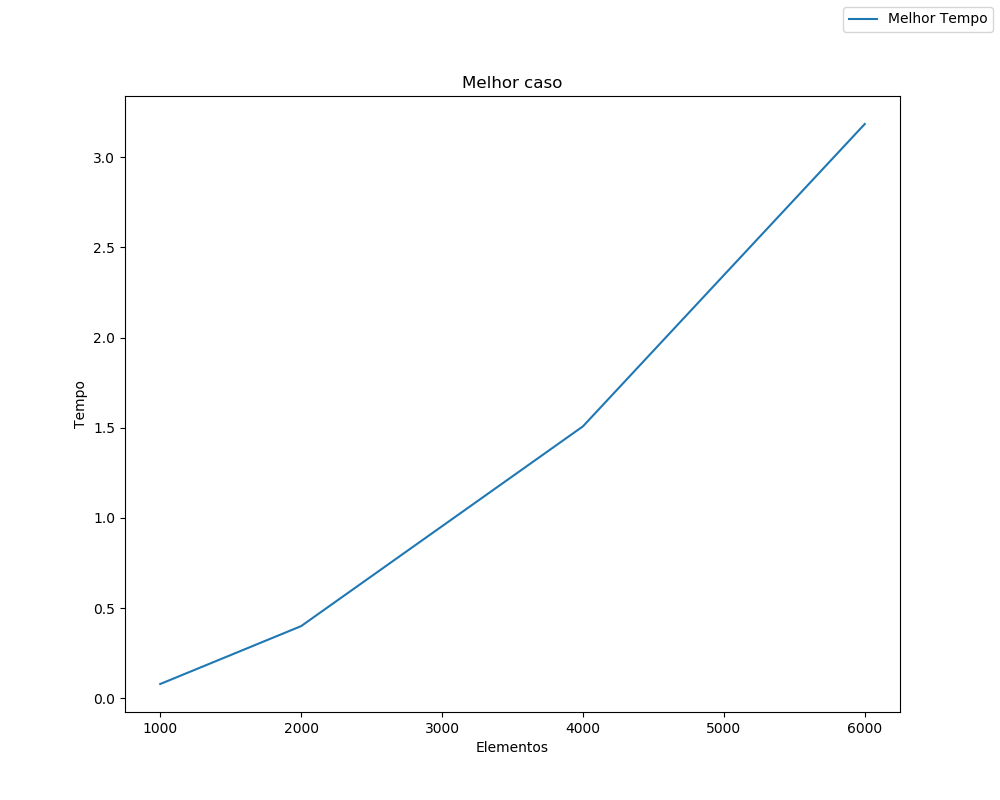
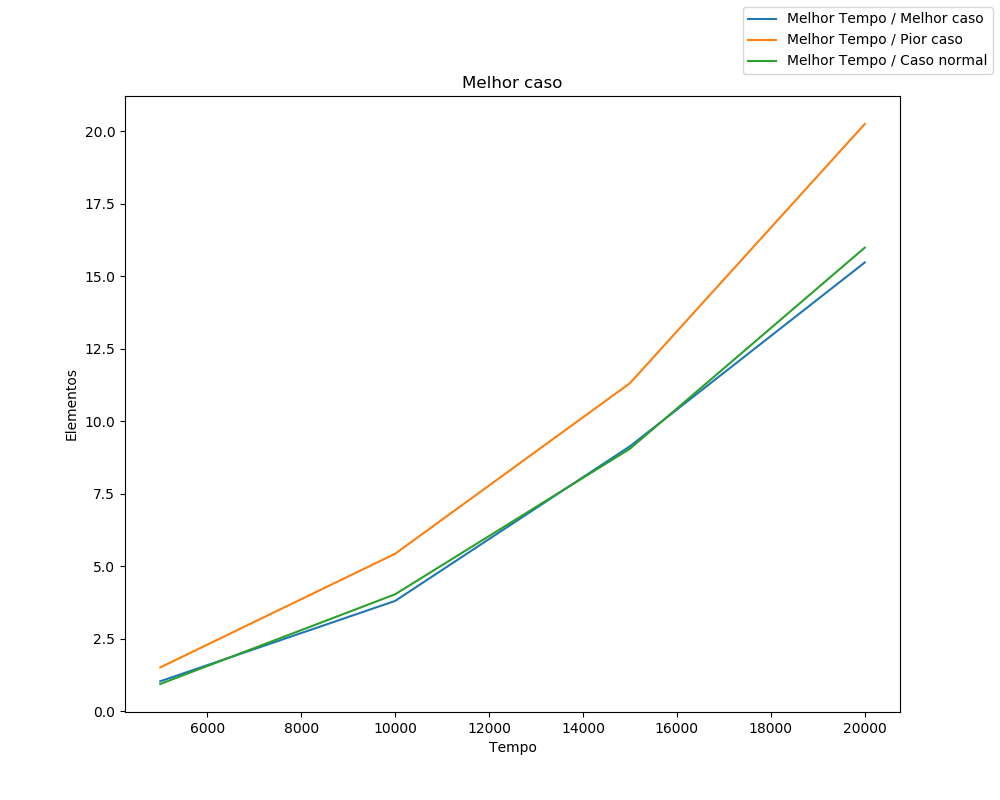
Editado Selection Sort
Em tentativa de resolver a contribuição do Selection Sort.

diff --git a/SortingAlgorithms(Python)/testSelectionOrdens.py b/SortingAlgorithms(Python)/testSelectionOrdens.py
@@ -1,0 +1,54 @@
+from helperFunctions import *
+import timeit
+
+setup = "from helperFunctions import geraListaOrdenada\n" \
+        "from selectionSort import selectionSort"
+vectMelhor = geraListaOrdenada(50000)
+tempoMelhor = []
+passoMelhor = []
+vectPior = geraListaReversa(50000)
+tempoPior = []
+passoPior = []
+vect = geraLista(50000)
+tempo = []
+passo = []
+
+numeros = [10000, 20000, 30000, 40000, 50000]
+
+#INICIO PIOR CASO
+for x in numeros:
+    tempoPior.append(timeit.timeit("selectionSort({})".format(vectPior[0:x].copy()), setup, number=1))
+    passoPior.append(x)
+    print("Elementos: {}".format(x))
+    print("Tempo: {}\n".format(tempoPior.copy().pop()))
+
+#INICIO MELHOR CASO
+for x in numeros:
+    tempoMelhor.append(timeit.timeit("selectionSort({})".format(vectMelhor[0:x].copy()), setup, number=1))
+    # print(tempo)
+    passoMelhor.append(x)
+    print("Elementos: {}".format(x))
+    print("Tempo: {}\n".format(tempoMelhor.copy().pop()))
+
+#INICIO CASO NORMAL
+for x in numeros:
+    tempo.append(timeit.timeit("selectionSort({})".format(vect[0:x].copy()), setup, number=1))
+    passo.append(x)
+    print("Elementos: {}".format(x))
+    print("Tempo: {}\n".format(tempo.copy().pop()))
+
+#INICIO ENCONTRAR PIOR CASO
+listas = geraListaDeLista(6)
+casoTempo = []
+casoLista = []
+for lista in listas:
+    casoTempo.append(timeit.timeit("selectionSort({})".format(list(lista).copy()), setup, number=1))
+    casoLista.append(lista)
+print("O tempo da lista com pior caso e: {}".format(max(casoTempo)))
+print("A lista com pior caso é: {}\n".format(casoLista[casoTempo.index(max(casoTempo))]))
+print("O tempo da lista com melhor caso e: {}".format(min(casoTempo)))
+print("A lista com melhor caso é: {}".format(casoLista[casoTempo.index(min(casoTempo))]))
+
+
+
+desenhaTresGraficos(passoMelhor, tempoMelhor, passoPior, tempoPior, passo, tempo, x1="Tempo", y1="Elementos", titulo="Selection Sort")

diff --git a/SortingAlgorithms(Python)/helperFunctions.py b/SortingAlgorithms(Python)/helperFunctions.py
@@ -5,6 +5,7 @@ import matplotlib.pyplot as plt
 import datetime
 import math
 import pylab
+import itertools
 
 def isSorted(list):
     for i in range(len(list))[1:]:
@@ -45,12 +46,12 @@ def geraListaSemiOrd(tam):
         lista.append(random.randint(i, noise))
     return lista
 
-def timeToInt(time):
+"""def timeToInt(time):
     (h, m, s) = time.split(':')
     return int(h) * 3600 + int(m) * 60 + int(s)
 
 def intToTime(time):
-    return str(datetime.timedelta(seconds=time))
+    return str(datetime.timedelta(seconds=time))"""
 
 
 def desenhaGrafico(x, y, xl="Entradas", yl="Tempo", titulo="Grafico"):
@@ -63,4 +64,28 @@ def desenhaGrafico(x, y, xl="Entradas", yl="Tempo", titulo="Grafico"):
     plt.title(titulo)
     plt.savefig("{0}{1}{2}.png".format(xl, yl, titulo))
     plt.show()
+
+def desenhaTresGraficos(primX, primY, segX, segY, terX, terY, x1="Entradas", y1="Tempo", titulo="Selection"):
+    fig = plt.figure(figsize=(10, 8))
+    ax = fig.add_subplot(111)
+    ax.plot(primX, primY, label="Melhor Tempo / Melhor caso")
+    ax.plot(segX, segY, label="Melhor Tempo / Pior caso")
+    ax.plot(terX, terY, label="Melhor Tempo / Caso normal")
+    ax.legend(bbox_to_anchor=(1, 1), bbox_transform=plt.gcf().transFigure)
+    plt.ylabel(x1)
+    plt.xlabel(y1)
+    plt.title(titulo)
+    plt.savefig("{0}{1}{2}.png".format(x1, y1, titulo))
+    plt.show()
+
+
+def geraListaDeLista (tam):
+    numElementos = math.factorial(tam+1)
+    aux = list(itertools.permutations(list(range(0, tam))))
+    return aux
+
+
+
+
+
 

diff --git a/SortingAlgorithms(Python)/testSelection.py b/SortingAlgorithms(Python)/testSelection.py
@@ -1,24 +1,16 @@
-import random
-from bubbleSort import bubbleSort
-import bubbleSort
-from insertionSort import insertionSort
 from helperFunctions import *
-import time
-import matplotlib.pyplot as plt
-from bubbleWFlag import bubbleWFlag
-from selectionSort import selectionSort
 import timeit
-import datetime
 import variables
 
-setup = "from helperFunctions import geraLista\n" \
+
+setup = "from helperFunctions import printfIfSorted\n" \
         "from selectionSort import selectionSort"
 vect = geraLista(50000)
 swaps = []
 tempo = []
 passo = []
 for x in range(10000, len(vect)+1, 10000):
-    tempo.append(timeit.timeit("selectionSort({})".format(vect[0:x].copy()), setup, number=1))
+    tempo.append(timeit.timeit("aux={}\naux=selectionSort(aux)\nprintIfSorted(aux)".format(vect[0:x].copy()), setup, number=1))
     passo.append(x)
     swaps.append(variables.swaps)
     print("Elementos: {}".format(x))
@@ -27,5 +19,4 @@ for x in range(10000, len(vect)+1, 10000):
 
 
 
-desenhaGrafico(passo, tempo, xl="Elementos", yl="Tempo")
-desenhaGrafico(passo, swaps, xl="Elementos", yl="Swaps")
+desenhaTresGraficos()

diff --git a/SortingAlgorithms(Python)/testBubbleOrdens.py b/SortingAlgorithms(Python)/testBubbleOrdens.py
@@ -1,15 +1,5 @@
-import random
-from bubbleSort import bubbleSort
-import bubbleSort
-from insertionSort import insertionSort
 from helperFunctions import *
-import time
-import matplotlib.pyplot as plt
-from bubbleWFlag import bubbleWFlag
-from selectionSort import selectionSort
 import timeit
-import datetime
-import variables
 
 setup = "from helperFunctions import geraListaOrdenada\n" \
         "from bubbleSort import bubbleSort"

diff --git a/SortingAlgorithms(Python)/selectionSort.py b/SortingAlgorithms(Python)/selectionSort.py
@@ -10,4 +10,3 @@ def selectionSort(v):
                 min = j
         v[i], v[min] = v[min], v[i]
         variables.swaps += 1
-    printIfSorted(v)
